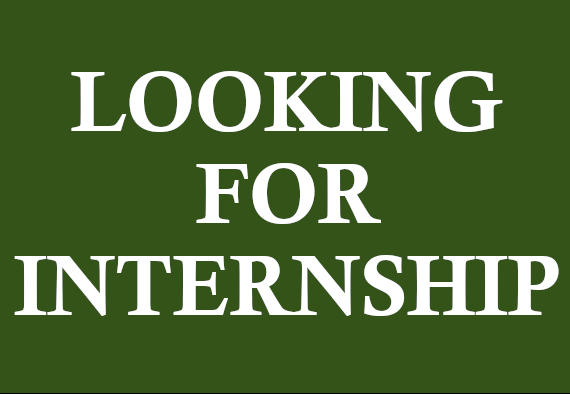
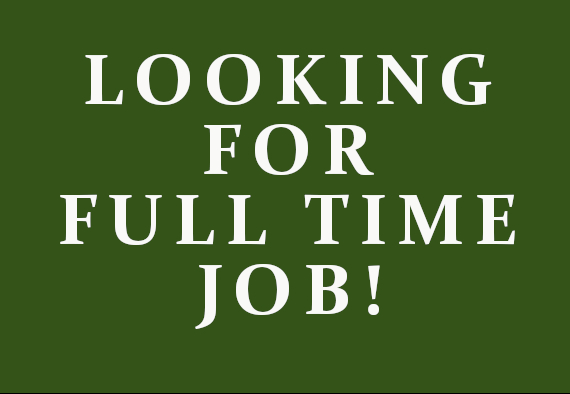
updated

Changed region(s): [[0.0298, 0.1218, 0.9842, 0.8528]]

diff --git a/index.html b/index.html
@@ -41,7 +41,10 @@ https://templatemo.com/tm-531-reflux
             </div>
             <div class="author-content">
               <h4>Sanna Natunen</h4>
-              <span>Software Developer Student</span>
+              <span>Software Developer Student
+              <br>
+                RPA Enthusiast
+              </span>
             </div>
             <nav class="main-nav" role="navigation">
               <ul class="main-menu">
@@ -77,7 +80,7 @@ https://templatemo.com/tm-531-reflux
             </div>
             <div class="copyright-text">
               <p>Copyright 2019 Reflux Design <br>Modified by SannaNatu
-              <br>Updated 15.4.2021
+              <br>Updated 13.7.2021
               </p>
             </div>
           </div>
@@ -111,11 +114,11 @@ https://templatemo.com/tm-531-reflux
               </div>
               <div class="col-md-6">
                 <div class="right-text">
-                  <h4>Spring/ Summer 2021</h4>
+                  <h4>Autumn 2021</h4>
                   <p>
                     <br><br>
                     Now
-                    I'm looking for an Internship, Summer trainee or Full time job!
+                    I'm looking for an Full time job!
                     <br><br>
 
                     <br><br>
@@ -207,10 +210,10 @@ https://templatemo.com/tm-531-reflux
             <h2>Skills</h2>
             <div class="line-dec"></div>
             <span
-              >I'm a 3th year student and my studies covers the Full Stack Developer methods.
+              >I'm a last year student and my studies covers the Full Stack Developer methods.
               <br><br>
               Even though I'm still a novice what comes to developing,<br> I would say that my strongest know- how and interest lies in Front End Development,<br>
-              but I do like to use the whole scale. Let alone mobile app developing or Robotic process automation. <br>All of my programming courses have been graded very good or excellent.
+              but I do like to use the whole scale. Let alone Robotic process automation or mobile app developing. <br>All of my programming courses have been graded very good or excellent.
               <br>Under there you can see all the stuff I've been studied.<br>
 
 
@@ -222,7 +225,7 @@ https://templatemo.com/tm-531-reflux
               <br>
               I have also taken some courses about human resources.
               <br>  <br>
-              On my spare time I've been doing Mimmit koodaa -program workshops and Java class from The University of Helsinki (MOOC).
+              On my spare time I've been doing Uipath courses and Mimmit koodaa -program workshops and Java class from The University of Helsinki (MOOC).
               <br>  <br>
 
               My customer service and project management skills are very
